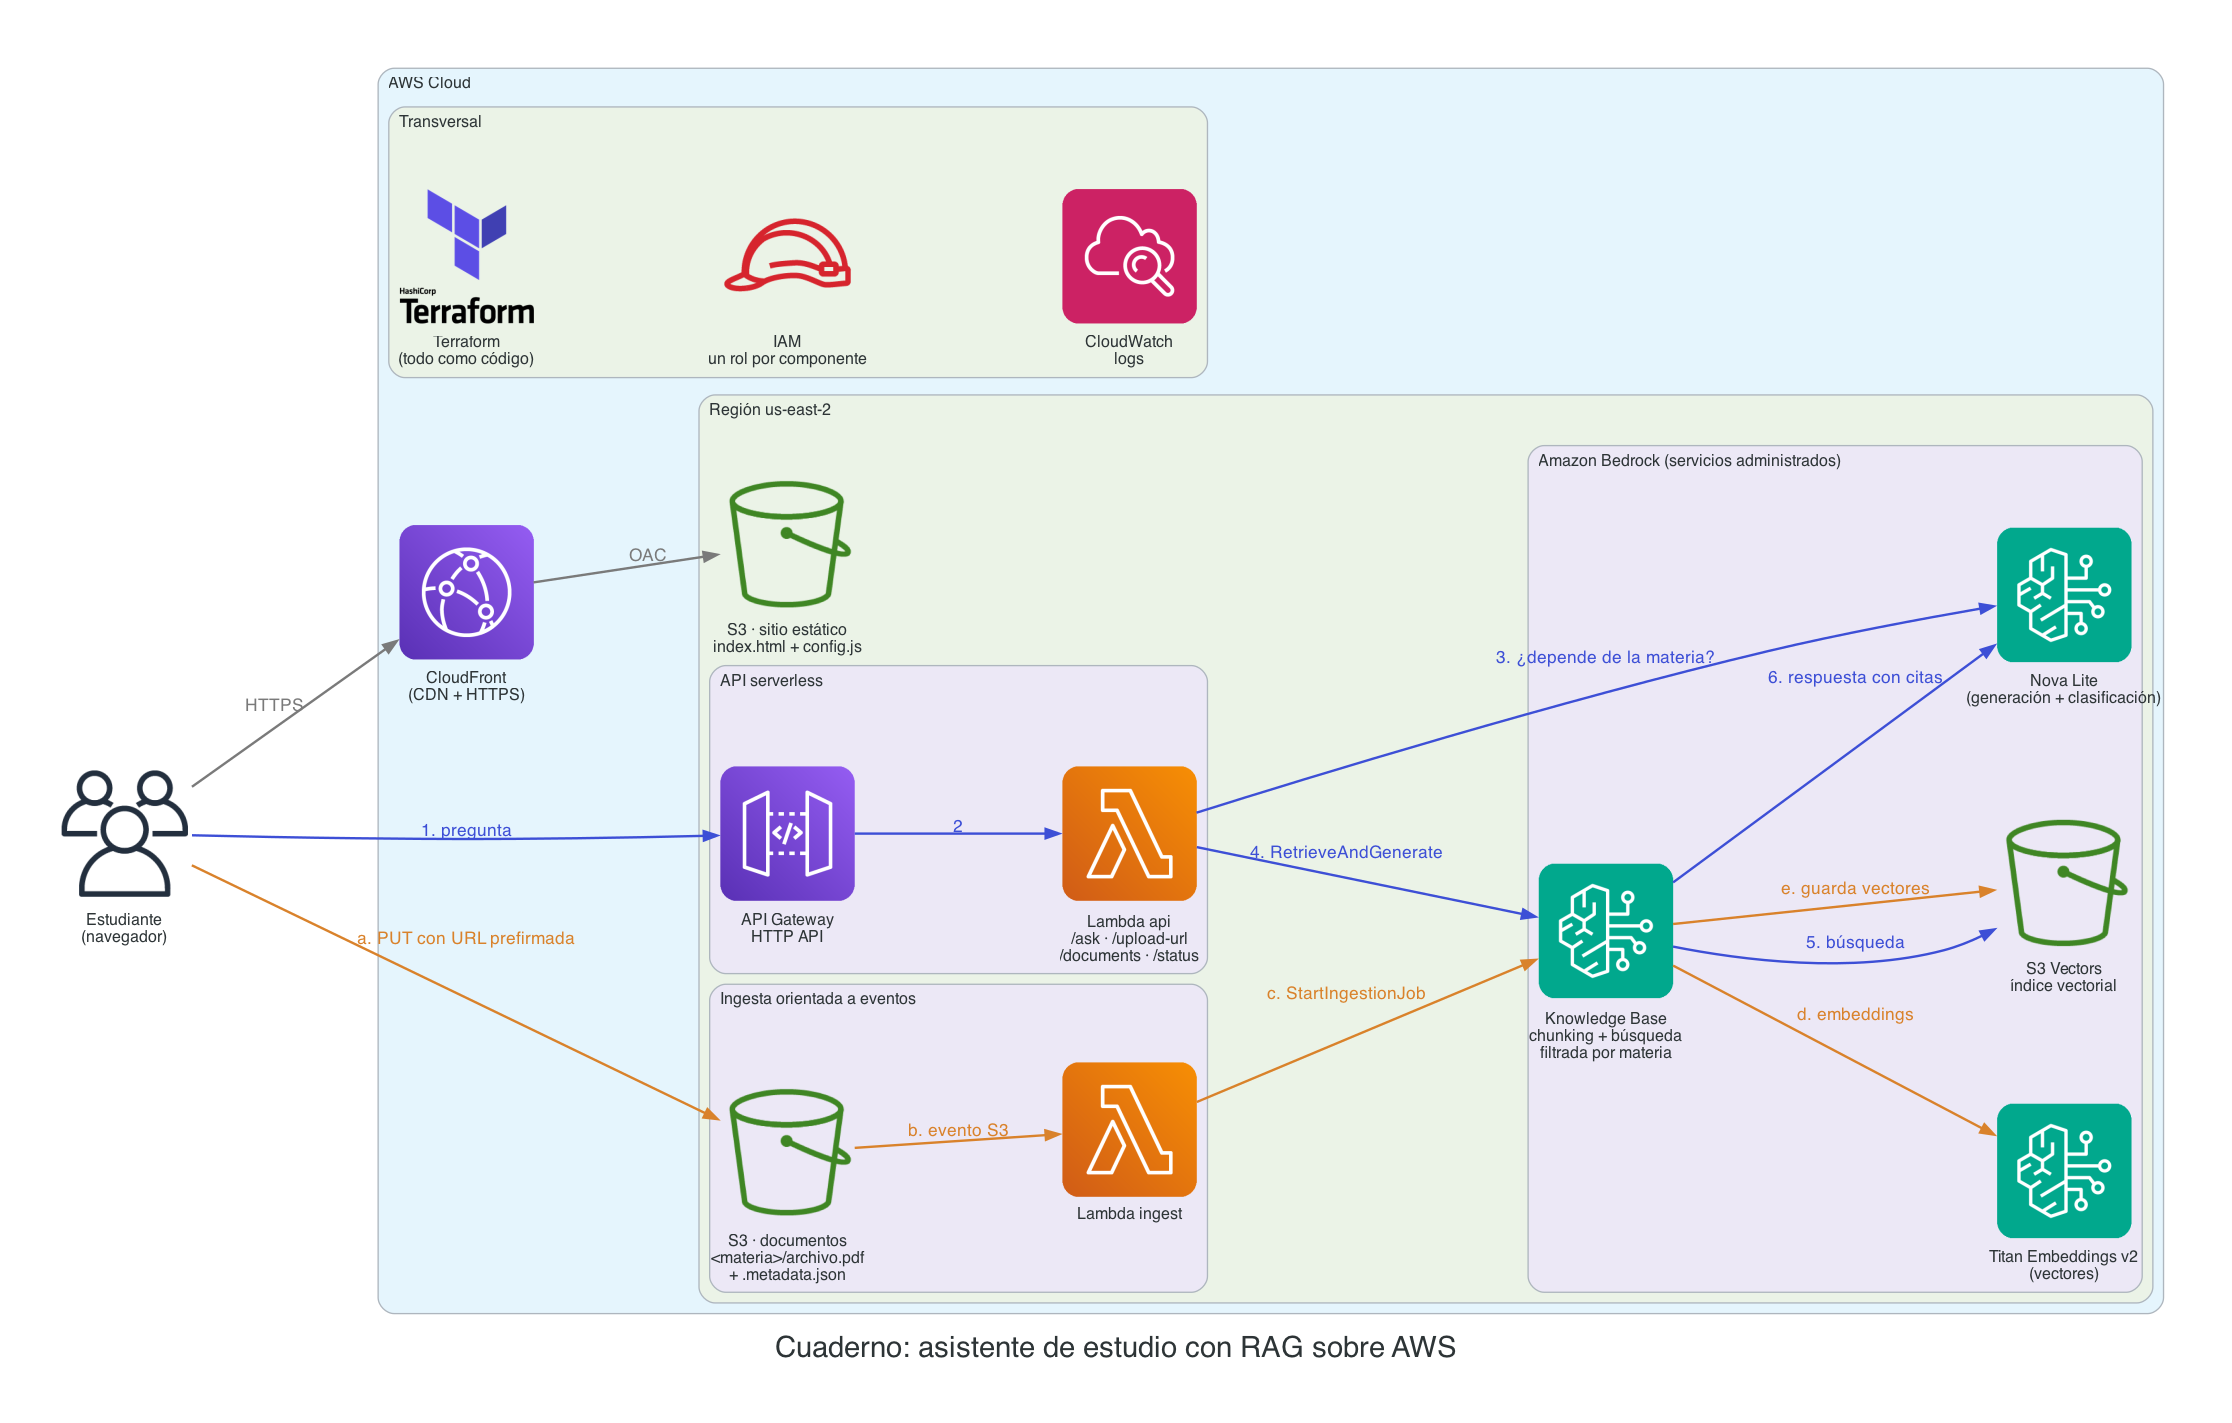
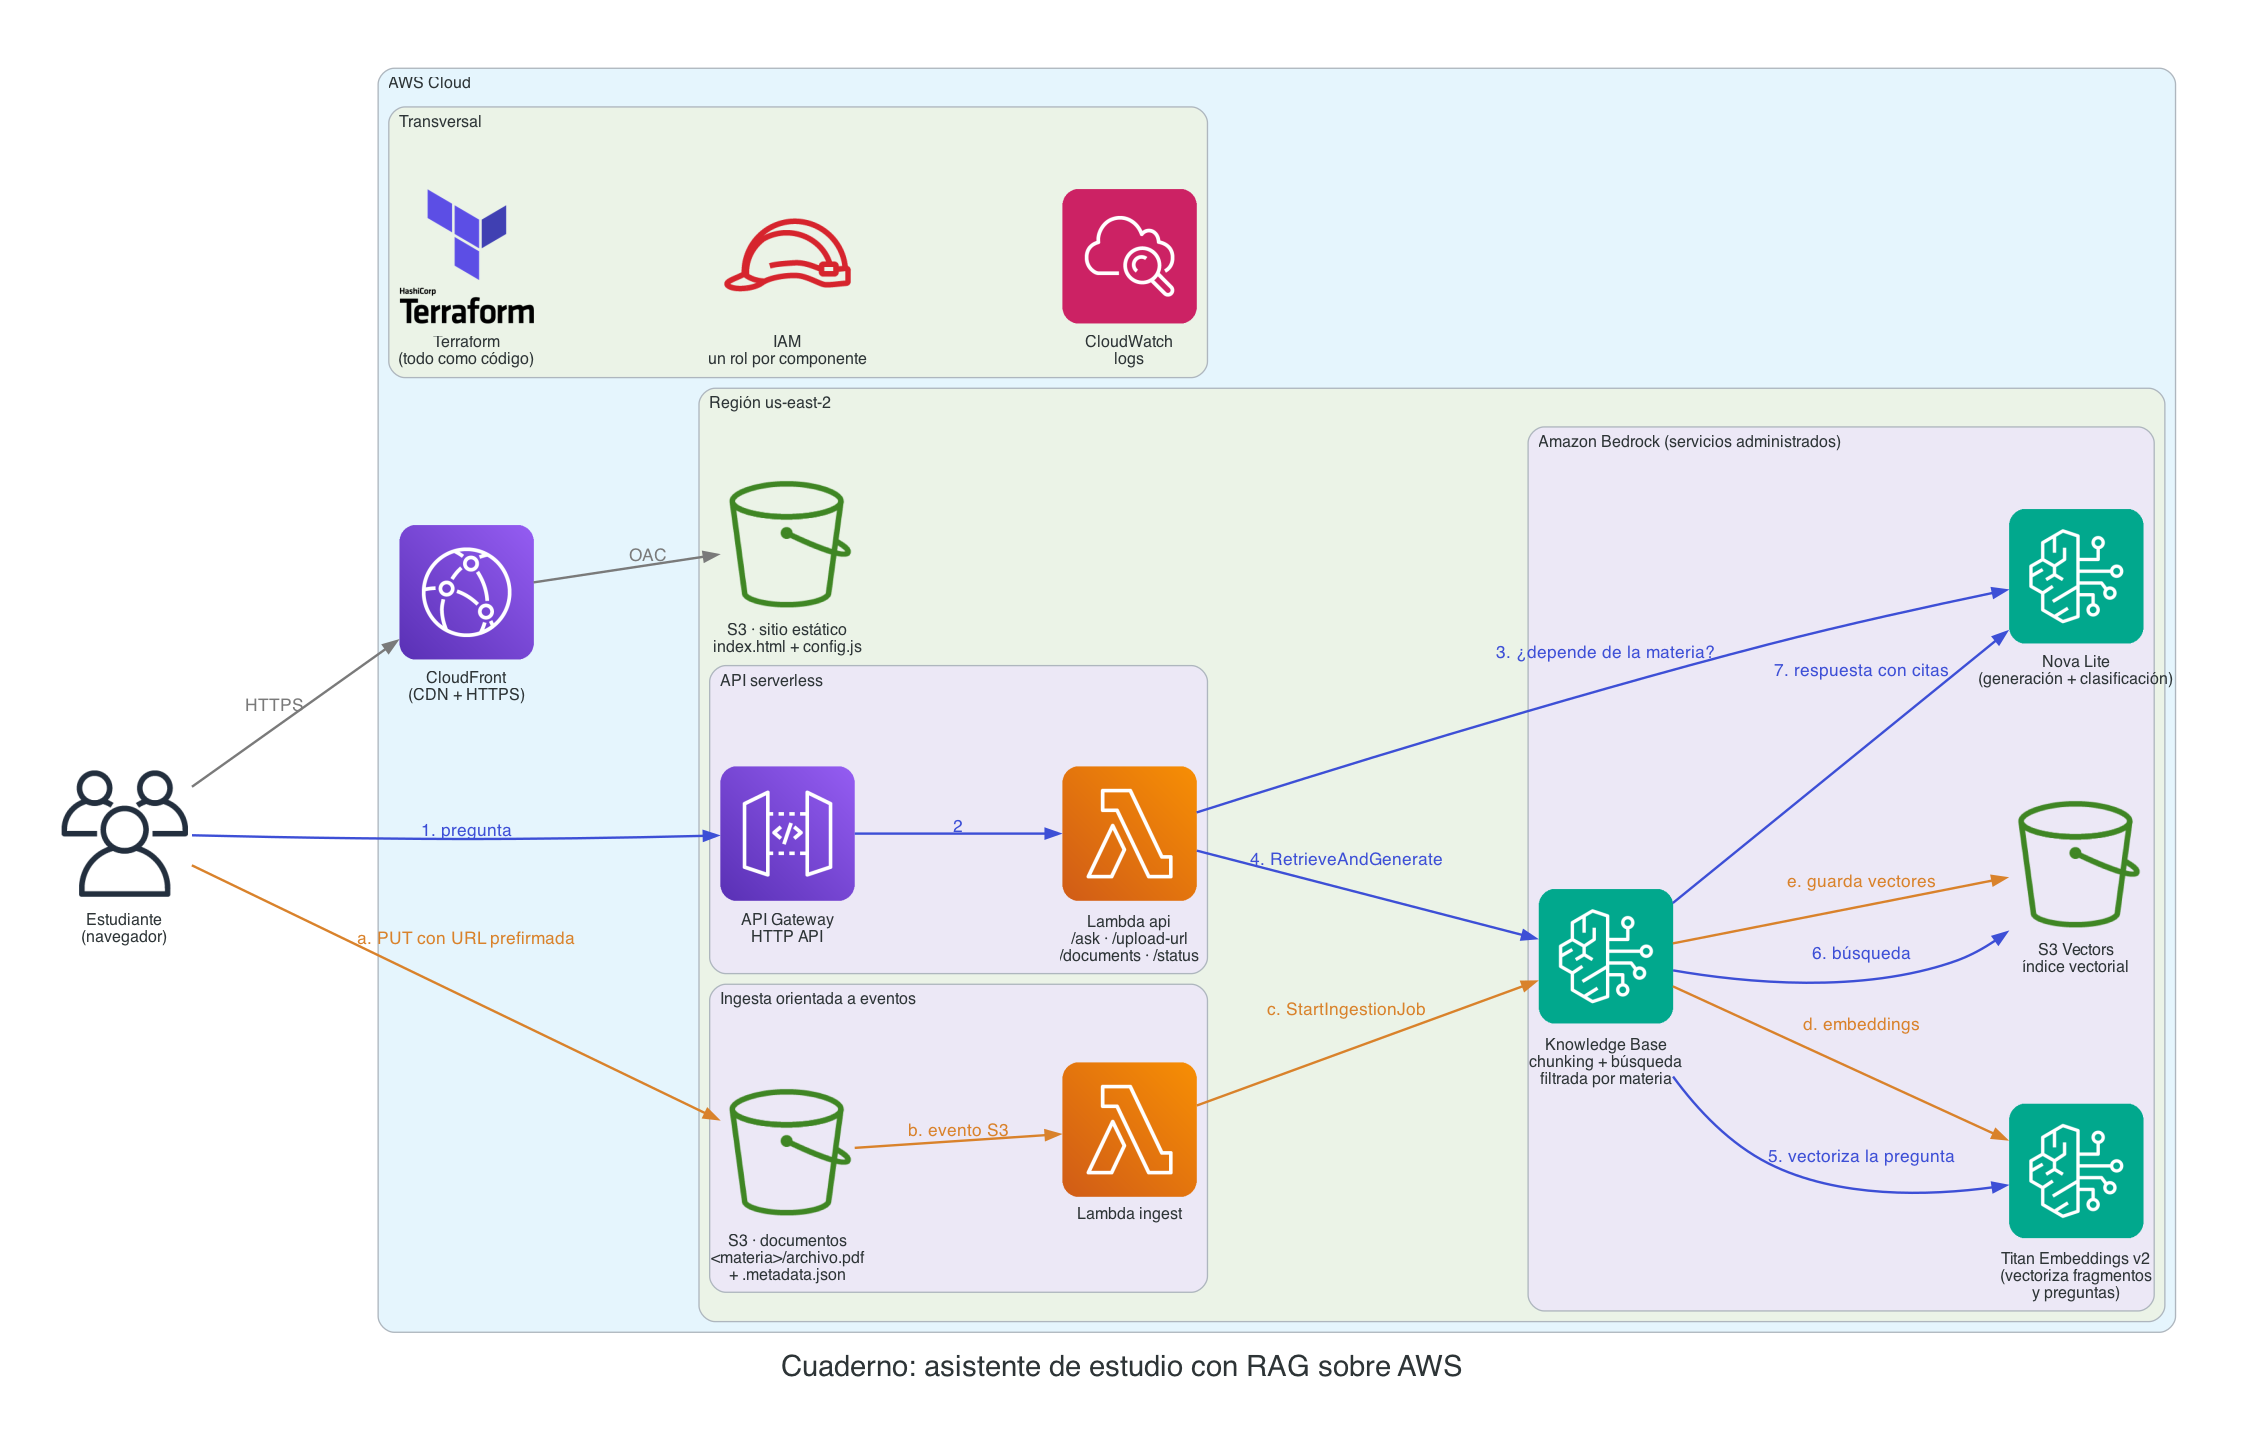
Materias reales, Titan en el flujo de consulta y sample-docs fuera del repo
- scripts/seed.py: make seed reemplaza el contenido del bucket por
  sample-docs/<materia>/ y genera el .metadata.json de cada documento.
- API: si la respuesta no trae ninguna cita, se responde que no se
  encontró la información (el modelo a veces devolvía texto sin sentido).
- Diagramas (PNG y Mermaid) y README: se agrega el paso en que la
  Knowledge Base vectoriza la pregunta con Titan antes de buscar.
- sample-docs/ al .gitignore: material de los cursos y archivos pesados.

diff --git a/scripts/seed.py b/scripts/seed.py
@@ -1,0 +1,49 @@
+"""Sube sample-docs/ al bucket de documentos, una carpeta por materia.
+
+Cada archivo queda en `<Materia>/<archivo>` junto con su `<archivo>.metadata.json`,
+que la Knowledge Base indexa para poder filtrar la búsqueda por materia.
+Sincroniza con --delete: lo que no está en sample-docs/ se borra del bucket.
+
+Uso: python3 scripts/seed.py <bucket>
+"""
+
+import json
+import pathlib
+import subprocess
+import sys
+import tempfile
+
+SAMPLE_DOCS = pathlib.Path(__file__).resolve().parent.parent / "sample-docs"
+
+# Nombre de cada carpeta tal como se muestra en la app.
+MATERIAS = {
+    "cloud-computing": "Cloud Computing",
+    "modelos-de-negocio": "Modelos de Negocio",
+    "modelos-formales": "Modelos Formales",
+    "teoria-computacion": "Teoría de la Computación",
+}
+
+METADATA_SUFFIX = ".metadata.json"
+
+
+def main(bucket):
+    with tempfile.TemporaryDirectory() as staging:
+        staging = pathlib.Path(staging)
+        for folder in sorted(p for p in SAMPLE_DOCS.iterdir() if p.is_dir()):
+            materia = MATERIAS.get(folder.name, folder.name.replace("-", " ").title())
+            target = staging / materia
+            target.mkdir()
+            for doc in sorted(folder.iterdir()):
+                if not doc.is_file() or doc.name.endswith(METADATA_SUFFIX) or doc.name.startswith("."):
+                    continue
+                (target / doc.name).symlink_to(doc)
+                (target / (doc.name + METADATA_SUFFIX)).write_text(
+                    json.dumps({"metadataAttributes": {"materia": materia}}, ensure_ascii=False)
+                )
+            print(f"{materia}: {sum(1 for p in target.iterdir() if not p.name.endswith(METADATA_SUFFIX))} documentos")
+
+        subprocess.run(["aws", "s3", "sync", f"{staging}/", f"s3://{bucket}/", "--delete", "--follow-symlinks"], check=True)
+
+
+if __name__ == "__main__":
+    main(sys.argv[1])

diff --git a/docs/arquitectura.py b/docs/arquitectura.py
@@ -57,7 +57,7 @@ with Diagram(
 
             with Cluster("Amazon Bedrock (servicios administrados)"):
                 kb = Bedrock("Knowledge Base\nchunking + búsqueda\nfiltrada por materia")
-                titan = Bedrock("Titan Embeddings v2\n(vectores)")
+                titan = Bedrock("Titan Embeddings v2\n(vectoriza fragmentos\ny preguntas)")
                 nova = Bedrock("Nova Lite\n(generación + clasificación)")
                 vectors = SimpleStorageServiceS3Bucket("S3 Vectors\níndice vectorial")
 
@@ -73,8 +73,9 @@ with Diagram(
     user >> flow(QUERY, "1. pregunta") >> api_gw >> flow(QUERY, "2") >> api_fn
     api_fn >> flow(QUERY, "3. ¿depende de la materia?") >> nova
     api_fn >> flow(QUERY, "4. RetrieveAndGenerate") >> kb
-    kb >> flow(QUERY, "5. búsqueda") >> vectors
-    kb >> flow(QUERY, "6. respuesta con citas") >> nova
+    kb >> flow(QUERY, "5. vectoriza la pregunta") >> titan
+    kb >> flow(QUERY, "6. búsqueda") >> vectors
+    kb >> flow(QUERY, "7. respuesta con citas") >> nova
 
     # Ingesta
     user >> flow(INGEST, "a. PUT con URL prefirmada") >> docs

diff --git a/backend/api.py b/backend/api.py
@@ -17,6 +17,7 @@ MODEL_ARN = os.environ["MODEL_ARN"]
 ALLOWED_EXTENSIONS = {".pdf", ".txt", ".md", ".html", ".csv", ".doc", ".docx", ".xls", ".xlsx"}
 METADATA_SUFFIX = ".metadata.json"
 ALL_SUBJECTS = "__todas__"
+NOT_FOUND_ANSWER = "No encontré información sobre eso en los documentos cargados."
 
 # Endpoint regional: con el global, las URLs prefirmadas responden 307 y el navegador no sigue el redirect.
 REGION = os.environ["AWS_REGION"]
@@ -111,6 +112,10 @@ def ask(body):
         result = agent_runtime.retrieve_and_generate(**request)
 
     answer, sources = attach_citations(result)
+    # Sin ninguna cita la respuesta no se apoya en los documentos: a veces el modelo
+    # devuelve texto sin sentido, así que lo decimos explícitamente.
+    if not sources:
+        answer = NOT_FOUND_ANSWER
     return {"answer": answer, "sources": sources, "sessionId": result["sessionId"], "materia": subject}
 
 

diff --git a/README.md b/README.md
@@ -36,7 +36,7 @@ flowchart LR
             subgraph bedrock["Amazon Bedrock (servicios administrados)"]
                 kb@{ img: "https://raw.githubusercontent.com/gbaup/cloud-computing/main/docs/icons/bedrock.png", label: "Knowledge Base<br/>chunking + búsqueda<br/>filtrada por materia", pos: "b", w: 56, h: 56, constraint: "on" }
                 nova@{ img: "https://raw.githubusercontent.com/gbaup/cloud-computing/main/docs/icons/bedrock.png", label: "Nova Lite<br/>generación + clasificación", pos: "b", w: 56, h: 56, constraint: "on" }
-                titan@{ img: "https://raw.githubusercontent.com/gbaup/cloud-computing/main/docs/icons/bedrock.png", label: "Titan Embeddings v2<br/>vectores", pos: "b", w: 56, h: 56, constraint: "on" }
+                titan@{ img: "https://raw.githubusercontent.com/gbaup/cloud-computing/main/docs/icons/bedrock.png", label: "Titan Embeddings v2<br/>vectoriza fragmentos y preguntas", pos: "b", w: 56, h: 56, constraint: "on" }
                 vectors@{ img: "https://raw.githubusercontent.com/gbaup/cloud-computing/main/docs/icons/s3.png", label: "S3 Vectors<br/>índice vectorial", pos: "b", w: 56, h: 56, constraint: "on" }
             end
         end
@@ -52,27 +52,28 @@ flowchart LR
     user -->|HTTPS| cdn
     cdn -->|OAC| web
 
-    %% Consulta (links 2-7)
+    %% Consulta (links 2-8)
     user -->|"1. pregunta"| apigw
     apigw -->|2| apifn
     apifn -->|"3. ¿depende de la materia?"| nova
     apifn -->|"4. RetrieveAndGenerate"| kb
-    kb -->|"5. búsqueda"| vectors
-    kb -->|"6. respuesta con citas"| nova
+    kb -->|"5. vectoriza la pregunta"| titan
+    kb -->|"6. búsqueda"| vectors
+    kb -->|"7. respuesta con citas"| nova
 
-    %% Ingesta (links 8-12)
+    %% Ingesta (links 9-13)
     user -->|"a. PUT con URL prefirmada"| docs
     docs -->|"b. evento S3"| ingfn
     ingfn -->|"c. StartIngestionJob"| kb
     kb -->|"d. embeddings"| titan
     kb -->|"e. guarda vectores"| vectors
 
-    %% Transversal: sin flechas, solo para alinear (links 13-14)
+    %% Transversal: sin flechas, solo para alinear (links 14-15)
     tf ~~~ iam ~~~ cw
 
     linkStyle 0,1 stroke:#7a7a7a,stroke-width:2px
-    linkStyle 2,3,4,5,6,7 stroke:#3d4fd6,stroke-width:2px
-    linkStyle 8,9,10,11,12 stroke:#d9822b,stroke-width:2px
+    linkStyle 2,3,4,5,6,7,8 stroke:#3d4fd6,stroke-width:2px
+    linkStyle 9,10,11,12,13 stroke:#d9822b,stroke-width:2px
 ```
 
 </details>
@@ -83,7 +84,7 @@ flowchart LR
 
 **Aclaración de materia:** antes de responder, la API revisa si la pregunta nombra una materia. Si no la nombra y hay más de una cargada, una llamada corta al modelo (temperatura 0) clasifica si la respuesta depende de la materia (evaluación, fechas, asistencia…). En ese caso devuelve "¿A cuál te referís?" con botones, y la respuesta siguiente se genera filtrando la búsqueda por esa materia. La materia elegida queda activa para las preguntas siguientes. Las preguntas conceptuales no piden aclaración: la búsqueda ya encuentra el contenido. Se probó primero comparar los scores de la búsqueda, pero los embeddings no separan bien preguntas como "¿cómo se aprueba?" entre syllabus parecidos.
 
-**Flujo de consulta:** la Lambda `api` llama a `RetrieveAndGenerate`. Bedrock busca los fragmentos más parecidos a la pregunta, se los pasa al modelo junto con un prompt que le prohíbe inventar y devuelve la respuesta con citas. El historial de la conversación lo mantiene Bedrock con un `sessionId`.
+**Flujo de consulta:** la Lambda `api` llama a `RetrieveAndGenerate`. La Knowledge Base vectoriza la pregunta con el mismo modelo de embeddings (Titan), busca en S3 Vectors los fragmentos más cercanos, se los pasa al modelo junto con un prompt que le prohíbe inventar y devuelve la respuesta con citas. El historial de la conversación lo mantiene Bedrock con un `sessionId`.
 
 ## Conceptos de cloud que muestra
 
@@ -115,7 +116,7 @@ make url       # URL de la app
 make destroy   # borra todo al terminar
 ```
 
-`sample-docs/` tiene apuntes de Cloud Computing, organizados como `sample-docs/<materia>/` con su `.metadata.json`. El resto de las materias se suben desde la web. Antes de subir material de un curso, sacá los datos personales que tenga (nombres, mails, listas de estudiantes o notas).
+`make seed` sube `sample-docs/<materia>/` al bucket (reemplazando lo que haya) y genera el `.metadata.json` de cada documento con el nombre de la materia (ver `scripts/seed.py`). La carpeta está en `.gitignore`: tiene material de los cursos y archivos pesados que no van al repo. También se pueden subir documentos desde la web. Antes de subir material de un curso, sacá los datos personales que tenga (nombres, mails, listas de estudiantes o notas).
 
 ## Costos
 
